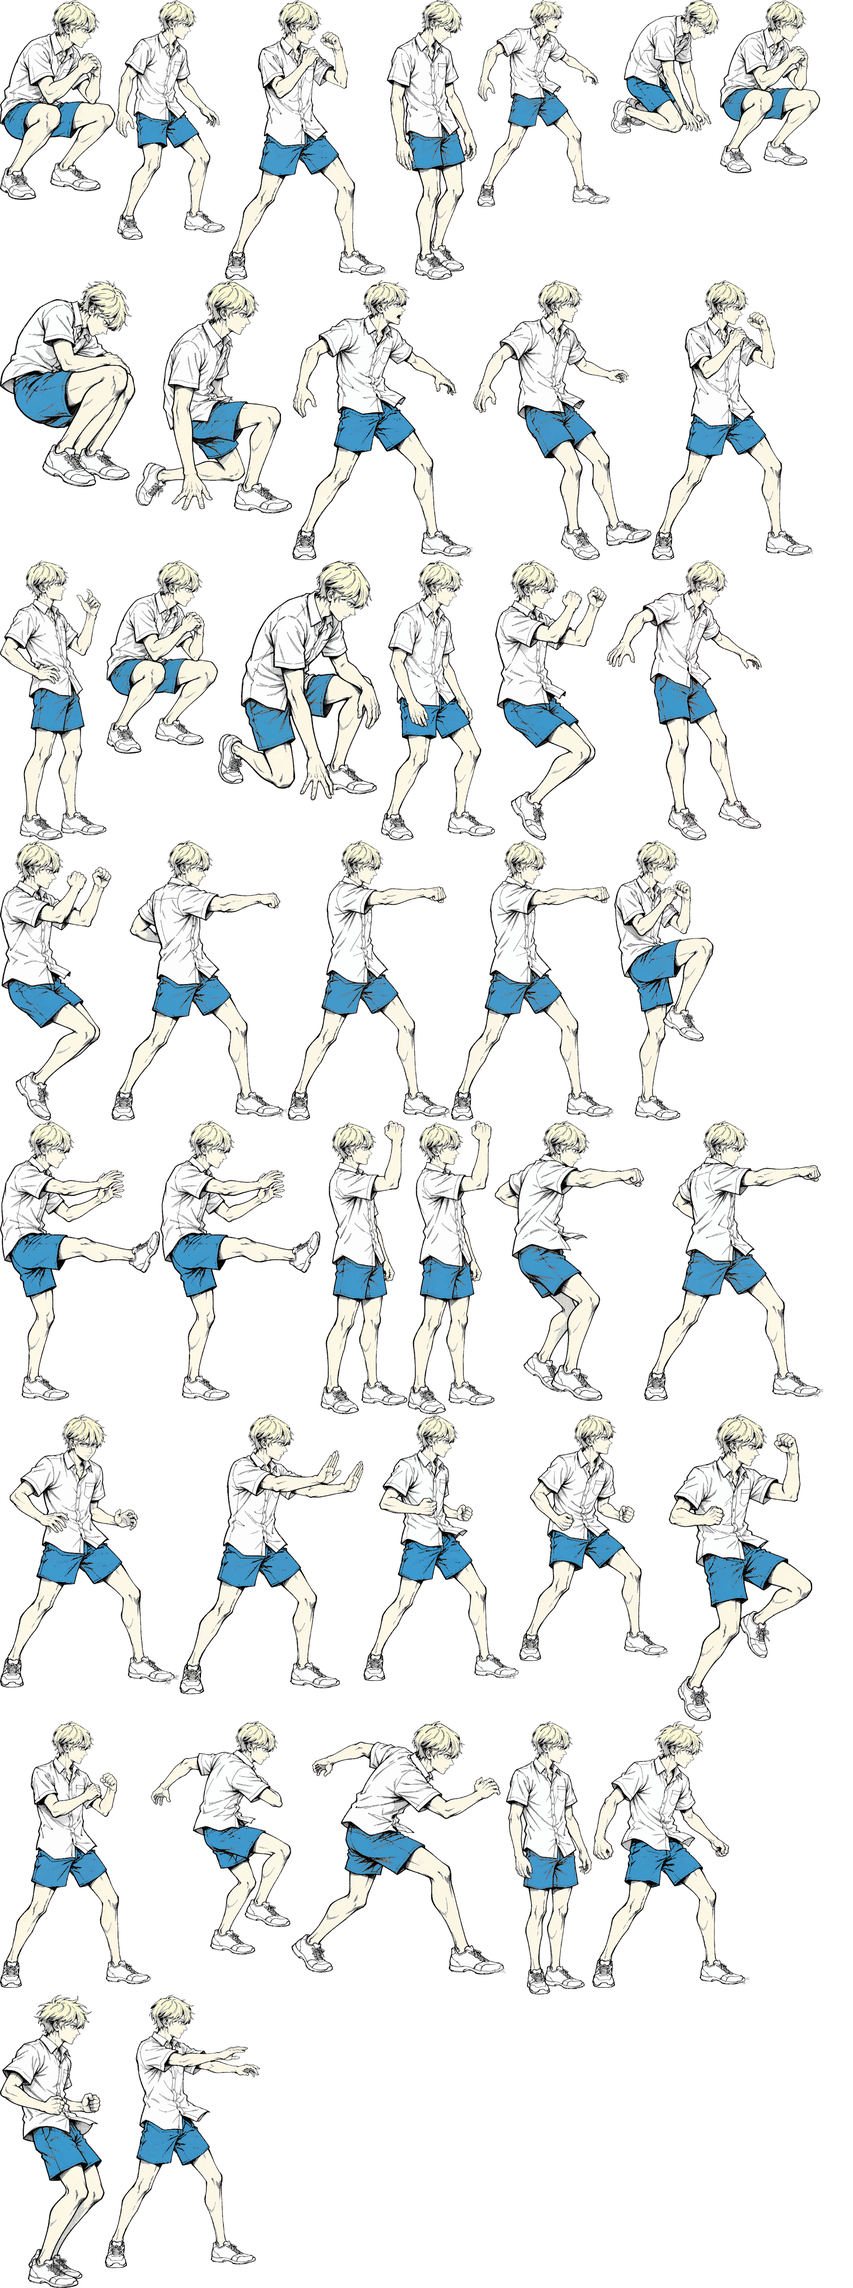
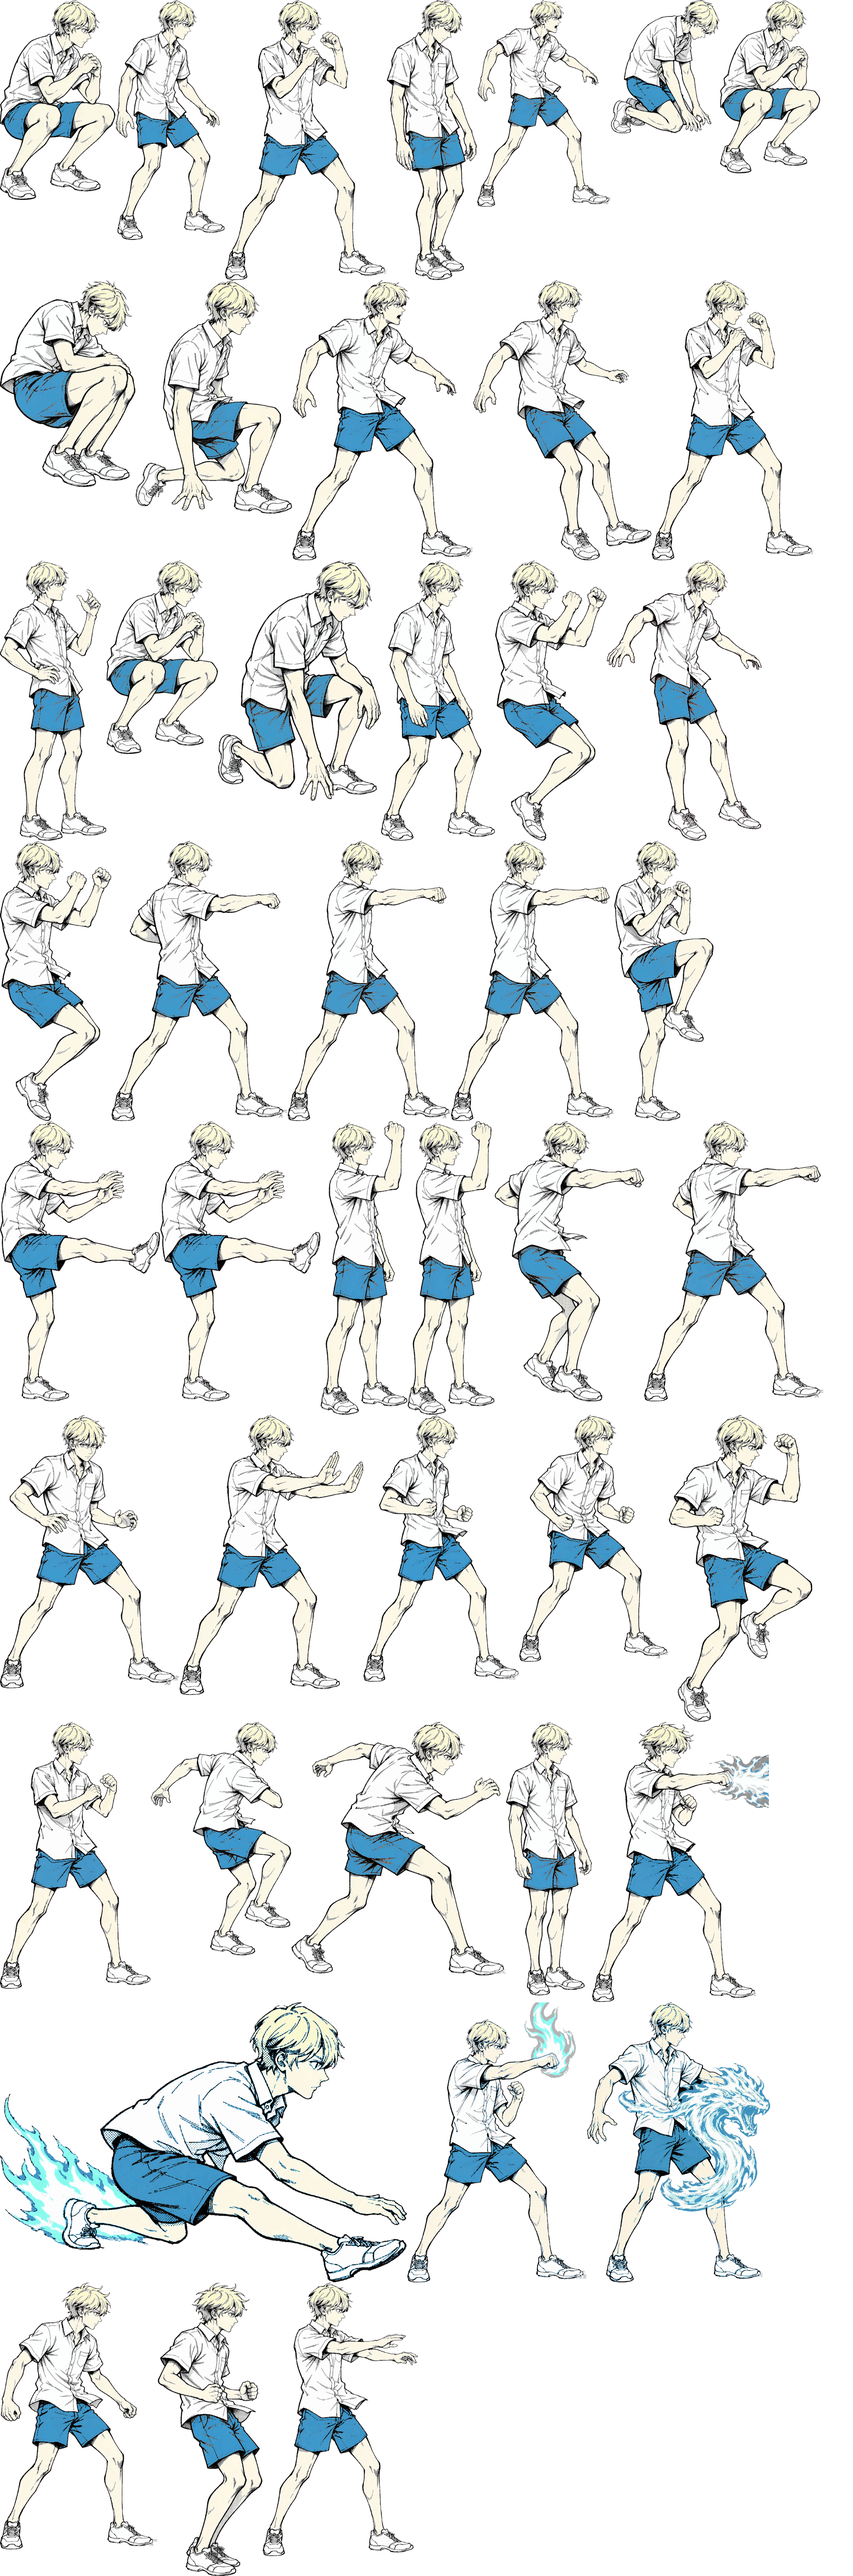
批次 20261027-0857 · [T270] 动作专属化 25/27：三天王各 4 招
改了什么：
- gen-poses 加 12 条（Yashiro：暗紫气浪/砸拳冲击/格挡气墙/踏地波纹；
  Shermie：洋红电光/电弧环绕/电弧圆环/全身雷电；
  Chris：青白火焰/滑铲火尾/火柱/火焰大蛇）
- build-sheet 加三组 12 个动画 + EXCLUSIVE_OWNER
- poses.ts 加 12 个兜底
- 三个角色数据各改 5 处

三种色系完全分开：暗紫（社）/ 洋红（夏尔米）/ 青白（克里斯）——三天王一眼可辨。
Chris 的「炎の大蛇」AI 真的把一团青白火焰画成了蛇形、蛇头清晰，是这个角色的招牌。

为什么一次做三个：三天王是同一队、同一次导入，一起做便于对照色系是否真的区分开。

怎么验证的：打包三个角色都检查了错误（grep -qi error），失败=0；art:check 通过；
npm run check 995 条全绿；12 张图全部一次成功

diff --git a/src/render/poses.ts b/src/render/poses.ts
@@ -655,6 +655,19 @@ export const POSE_LIBRARY: Record<string, Pose> = {
   shingospecial2: { frameDuration: 1, loop: false, exclusive: 'shingo', frames: [f({ head: p(-2, -70), neck: p(-2, -60), hip: p(0, -39), legFront: [p(18, -52), p(28, -48)], legBack: [p(-8, -24), p(-8, -2)] })] },
   shingospecial3: { frameDuration: 1, loop: false, exclusive: 'shingo', frames: [f({ head: p(2, -70), neck: p(2, -60), hip: p(0, -39), armFront: [p(10, -66), p(8, -80)], armBack: [p(-10, -50), p(-14, -42)] })] },
   shingosuper: { frameDuration: 1, loop: false, exclusive: 'shingo', frames: [f({ head: p(6, -68), neck: p(6, -58), hip: p(2, -37), armFront: [p(20, -56), p(32, -54)], armBack: [p(8, -56), p(20, -54)] })] },
+  // 三天王专属必杀的兜底（key 与 anim 名一致）
+  yashirospecial1: { frameDuration: 1, loop: false, exclusive: 'yashiro', frames: [f({ head: p(6, -68), neck: p(6, -58), hip: p(2, -37), armFront: [p(18, -56), p(30, -54)], armBack: [p(-10, -52), p(-16, -46)] })] },
+  yashirospecial2: { frameDuration: 1, loop: false, exclusive: 'yashiro', frames: [f({ head: p(5, -66), neck: p(5, -56), hip: p(1, -36), armFront: [p(10, -74), p(12, -90)], armBack: [p(-8, -50), p(-14, -42)] })] },
+  yashirospecial3: { frameDuration: 1, loop: false, exclusive: 'yashiro', frames: [f({ head: p(3, -68), neck: p(3, -58), hip: p(0, -37), armFront: [p(16, -58), p(28, -56)], armBack: [p(-10, -54), p(-16, -48)] })] },
+  yashirosuper: { frameDuration: 1, loop: false, exclusive: 'yashiro', frames: [f({ head: p(4, -58), neck: p(4, -50), hip: p(0, -30), armFront: [p(18, -46), p(30, -40)], armBack: [p(-16, -46), p(-28, -40)] })] },
+  shermiespecial1: { frameDuration: 1, loop: false, exclusive: 'shermie', frames: [f({ head: p(4, -70), neck: p(4, -60), hip: p(1, -39), armFront: [p(16, -58), p(30, -56)], armBack: [p(6, -58), p(20, -56)] })] },
+  shermiespecial2: { frameDuration: 1, loop: false, exclusive: 'shermie', frames: [f({ head: p(-4, -66), neck: p(-4, -56), hip: p(-2, -36), armFront: [p(12, -62), p(16, -78)], armBack: [p(-10, -56), p(-14, -72)] })] },
+  shermiespecial3: { frameDuration: 1, loop: false, exclusive: 'shermie', frames: [f({ head: p(2, -70), neck: p(1, -60), hip: p(0, -39), legFront: [p(20, -50), p(30, -44)], legBack: [p(-8, -26), p(-10, -8)] })] },
+  shermiesuper: { frameDuration: 1, loop: false, exclusive: 'shermie', frames: [f({ head: p(-6, -62), neck: p(-6, -54), hip: p(-3, -34), armFront: [p(10, -58), p(14, -74)], armBack: [p(-8, -54), p(-12, -70)] })] },
+  chrisspecial1: { frameDuration: 1, loop: false, exclusive: 'chris', frames: [f({ head: p(4, -70), neck: p(4, -60), hip: p(1, -38), armFront: [p(16, -58), p(30, -56)], armBack: [p(-10, -52), p(-16, -46)] })] },
+  chrisspecial2: { frameDuration: 1, loop: false, exclusive: 'chris', frames: [f({ head: p(8, -54), neck: p(8, -46), hip: p(2, -28), legFront: [p(20, -18), p(32, -8)], legBack: [p(-10, -16), p(-14, -2)] })] },
+  chrisspecial3: { frameDuration: 1, loop: false, exclusive: 'chris', frames: [f({ head: p(1, -74), neck: p(1, -64), hip: p(0, -41), armFront: [p(10, -66), p(8, -82)], armBack: [p(-10, -50), p(-14, -42)] })] },
+  chrissuper: { frameDuration: 1, loop: false, exclusive: 'chris', frames: [f({ head: p(-2, -70), neck: p(-2, -60), hip: p(0, -38), armFront: [p(14, -58), p(28, -54)], armBack: [p(-14, -58), p(-28, -54)] })] },
   /** 升龙系：整个人向上冲，手臂上举 */
   specialUppercut: {
     frameDuration: 1,

diff --git a/src/data/chars/yashiro.ts b/src/data/chars/yashiro.ts
@@ -23,7 +23,7 @@ export const YASHIRO: CharDef = {
 
     // ---------------------------------------------------------------- 必杀技
     // 強靭ダン：突进肩撞
-    '236A': mv('236A', '強靭ダン', 'punchHeavy', 38, 'special', [
+    '236A': mv('236A', '強靭ダン', 'yashirospecial1', 38, 'special', [
       hit('h1', {
         box: { x: 14, y: -64, w: 36, h: 24 },
         frames: [10, 14],
@@ -37,7 +37,7 @@ export const YASHIRO: CharDef = {
     ], { input: { motion: '236', buttons: ['A'] }, travel: 66, travelFrames: 15 }),
 
     // ミサイルマイト：跳起砸地（中段）
-    '214A': mv('214A', 'ミサイルマイト', 'punchHeavy', 42, 'special', [
+    '214A': mv('214A', 'ミサイルマイト', 'yashirospecial2', 42, 'special', [
       hit('h1', {
         box: { x: 10, y: -70, w: 38, h: 34 },
         frames: [14, 18],
@@ -53,7 +53,7 @@ export const YASHIRO: CharDef = {
     ], { input: { motion: '214', buttons: ['A'] } }),
 
     // ジェットカウンター：对空上捞
-    '623A': mv('623A', 'ジェットカウンター', 'punchHeavy', 40, 'special', [
+    '623A': mv('623A', 'ジェットカウンター', 'yashirospecial3', 40, 'special', [
       hit('h1', {
         box: { x: 6, y: -90, w: 30, h: 62 },
         frames: [5, 11],
@@ -67,7 +67,7 @@ export const YASHIRO: CharDef = {
     ], { input: { motion: '623', buttons: ['A'] }, invuln: [{ frames: [1, 5], kind: 'full' }] }),
 
     // ---------------------------------------------------------------- 超必杀
-    '236236A': mv('236236A', 'ミリオンスタンプ', 'special', 66, 'super', [
+    '236236A': mv('236236A', 'ミリオンスタンプ', 'yashirosuper', 66, 'super', [
       hit('h1', { box: { x: 10, y: -72, w: 40, h: 34 }, frames: [10, 14], damage: 38, hitStun: 17, hitstop: 7, meterGain: 0 }),
       hit('h2', { box: { x: 10, y: -74, w: 40, h: 38 }, frames: [20, 24], damage: 36, hitStun: 17, hitstop: 7, meterGain: 0 }),
       hit('h3', {
@@ -81,7 +81,7 @@ export const YASHIRO: CharDef = {
       }),
     ], { input: { motion: '236236', buttons: ['A'] }, meterCost: 50, travel: 46, travelFrames: 14 }),
 
-    '236236AC': mv('236236AC', 'ミリオンスタンプ MAX', 'special', 78, 'super', [
+    '236236AC': mv('236236AC', 'ミリオンスタンプ MAX', 'yashirosuper', 78, 'super', [
       hit('h1', { box: { x: 8, y: -74, w: 42, h: 36 }, frames: [8, 11], damage: 34, hitStun: 17, hitstop: 6, meterGain: 0 }),
       hit('h2', { box: { x: 8, y: -76, w: 42, h: 40 }, frames: [16, 19], damage: 32, hitStun: 17, hitstop: 6, meterGain: 0 }),
       hit('h3', { box: { x: 8, y: -78, w: 44, h: 42 }, frames: [24, 27], damage: 32, hitStun: 17, hitstop: 6, meterGain: 0 }),

diff --git a/src/data/chars/shermie.ts b/src/data/chars/shermie.ts
@@ -22,7 +22,7 @@ export const SHERMIE: CharDef = {
 
     // ---------------------------------------------------------------- 必杀技
     // シェルミーフラッシュ：雷电突进
-    '236A': mv('236A', 'シェルミーフラッシュ', 'special', 38, 'special', [
+    '236A': mv('236A', 'シェルミーフラッシュ', 'shermiespecial1', 38, 'special', [
       hit('h1', {
         box: { x: 12, y: -66, w: 36, h: 30 },
         frames: [11, 15],
@@ -36,7 +36,7 @@ export const SHERMIE: CharDef = {
     ], { input: { motion: '236', buttons: ['A'] }, travel: 54, travelFrames: 15 }),
 
     // シェルミースパイラル：抓起来摔（不可防）
-    '63214B': mv('63214B', 'シェルミースパイラル', 'throwStart', 54, 'throw', [
+    '63214B': mv('63214B', 'シェルミースパイラル', 'shermiespecial2', 54, 'throw', [
       hit('h1', {
         box: { x: 4, y: -64, w: 32, h: 48 },
         frames: [8, 12],
@@ -51,7 +51,7 @@ export const SHERMIE: CharDef = {
     ], { input: { motion: '63214', buttons: ['B'] }, blockable: false }),
 
     // アクセルスピンナー：原地回旋踢
-    '214A': mv('214A', 'アクセルスピンナー', 'kickHeavy', 40, 'special', [
+    '214A': mv('214A', 'アクセルスピンナー', 'shermiespecial3', 40, 'special', [
       hit('h1', { box: { x: 10, y: -66, w: 32, h: 24 }, frames: [9, 12], damage: 30, hitStun: 15, hitstop: 6, meterGain: 5 }),
       hit('h2', {
         box: { x: 10, y: -70, w: 34, h: 30 },
@@ -65,7 +65,7 @@ export const SHERMIE: CharDef = {
     ], { input: { motion: '214', buttons: ['A'] } }),
 
     // ---------------------------------------------------------------- 超必杀
-    '236236A': mv('236236A', 'シェルミーパラダイス', 'throwStart', 70, 'super', [
+    '236236A': mv('236236A', 'シェルミーパラダイス', 'shermiesuper', 70, 'super', [
       hit('h1', {
         box: { x: 4, y: -66, w: 34, h: 50 },
         frames: [8, 12],
@@ -98,7 +98,7 @@ export const SHERMIE: CharDef = {
       }),
     ], { input: { motion: '236236', buttons: ['A'] }, meterCost: 100, blockable: false }),
 
-    '236236AC': mv('236236AC', 'シェルミーフラッシュ MAX', 'special', 64, 'super', [
+    '236236AC': mv('236236AC', 'シェルミーフラッシュ MAX', 'shermiesuper', 64, 'super', [
       hit('h1', { box: { x: 10, y: -70, w: 38, h: 34 }, frames: [8, 12], damage: 34, hitStun: 16, hitstop: 7, meterGain: 0 }),
       hit('h2', { box: { x: 10, y: -72, w: 40, h: 38 }, frames: [18, 22], damage: 32, hitStun: 16, hitstop: 7, meterGain: 0 }),
       hit('h3', {

diff --git a/src/data/chars/chris.ts b/src/data/chars/chris.ts
@@ -22,7 +22,7 @@ export const CHRIS: CharDef = {
 
     // ---------------------------------------------------------------- 必杀技
     // クリスフレイム：火焰弹（飞行道具）
-    '236A': mv('236A', 'クリスフレイム', 'special', 36, 'special', [], {
+    '236A': mv('236A', 'クリスフレイム', 'chrisspecial1', 36, 'special', [], {
       input: { motion: '236', buttons: ['A'] },
       projectile: {
         anim: 'クリスフレイム',
@@ -43,7 +43,7 @@ export const CHRIS: CharDef = {
     }),
 
     // スライディング：低身滑铲（下段）
-    '214B': mv('214B', 'スライディング', 'crouchKick', 34, 'special', [
+    '214B': mv('214B', 'スライディング', 'chrisspecial2', 34, 'special', [
       hit('h1', {
         box: { x: 10, y: -20, w: 34, h: 16 },
         frames: [9, 13],
@@ -59,7 +59,7 @@ export const CHRIS: CharDef = {
     ], { input: { motion: '214', buttons: ['B'] }, travel: 62, travelFrames: 14 }),
 
     // フレイムアッパー：对空火焰拳
-    '623A': mv('623A', 'フレイムアッパー', 'special', 38, 'special', [
+    '623A': mv('623A', 'フレイムアッパー', 'chrisspecial3', 38, 'special', [
       hit('h1', {
         box: { x: 6, y: -86, w: 28, h: 58 },
         frames: [4, 10],
@@ -73,7 +73,7 @@ export const CHRIS: CharDef = {
     ], { input: { motion: '623', buttons: ['A'] }, invuln: [{ frames: [1, 5], kind: 'full' }] }),
 
     // ---------------------------------------------------------------- 超必杀
-    '236236A': mv('236236A', 'クリスフレイム MAX', 'special', 64, 'super', [
+    '236236A': mv('236236A', 'クリスフレイム MAX', 'chrissuper', 64, 'super', [
       hit('h1', { box: { x: 10, y: -74, w: 36, h: 30 }, frames: [8, 11], damage: 28, hitStun: 16, hitstop: 6, meterGain: 0 }),
       hit('h2', { box: { x: 10, y: -76, w: 36, h: 34 }, frames: [15, 18], damage: 26, hitStun: 16, hitstop: 6, meterGain: 0 }),
       hit('h3', { box: { x: 10, y: -78, w: 38, h: 38 }, frames: [22, 25], damage: 26, hitStun: 16, hitstop: 6, meterGain: 0 }),
@@ -88,7 +88,7 @@ export const CHRIS: CharDef = {
       }),
     ], { input: { motion: '236236', buttons: ['A'] }, meterCost: 50, travel: 44, travelFrames: 12 }),
 
-    '236236AC': mv('236236AC', '炎の大蛇', 'special', 76, 'super', [], {
+    '236236AC': mv('236236AC', '炎の大蛇', 'chrissuper', 76, 'super', [], {
       input: { motion: '236236', buttons: ['A', 'C'] },
       meterCost: 100,
       projectile: {

diff --git a/docs/MOVE-PER-CHAR.md b/docs/MOVE-PER-CHAR.md
@@ -83,14 +83,14 @@ mv('236A', '百拾四式・荒咬', 'punchLight', 26, 'special', [...])
 | 19 | ビリー billy | 旋風棍 / 三節棍中段打ち / 火龍棍 / 超火炎旋風棍 | **done** |
 | 20 | 影二 eiji | 霞斬り / 骨破ぎ / 影すべり / 斬鉄蟷螂 | **done** |
 | 21 | 矢吹真吾 shingo | 荒咬み（未完成）/ 真吾キック / 鬼焼き（未完成）/ 外式・駈け鳳麟 | **done** |
-| 22 | 社 yashiro | ミリオンラッシュ / ダークエレジー / ディザスターパンチ / ファイナルインパクト | - |
-| 23 | シェルミー shermie | シャイニングアックス / ショルダーダッシュ / アクセルスピンナックル / ファイナルスピン | - |
-| 24 | クリス chris | 舞首 / 射殺 / 乱れ菊 / サイコリフレクター | - |
+| 22 | 社 yashiro | 強靭ダン / ミサイルマイト / ジェットカウンター / ミリオンスタンプ | **done** |
+| 23 | シェルミー shermie | シェルミーフラッシュ / スパイラル / アクセルスピンナー / パラダイス | **done** |
+| 24 | クリス chris | クリスフレイム / スライディング / フレイムアッパー / 炎の大蛇 | **done** |
 | 25 | ゲーニッツ goenitz | 夜風の曲 / 氷河 / 大気圏の引裂き / 真・八拾八式 | - |
 | 26 | 暴走庵 orochi_iori | 百八式・闇払い / 百式・鬼焼き / 屑風 / 禁千弐百拾八式・八稚女 | - |
 | 27 | 覚醒レオナ orochi_leona | グランドセイバー / ムーンストライカー / Xキャリバー / リボルブブラスター | - |
 
-**完成度：22 / 27**
+**完成度：25 / 27**
 
 ## 六、已完成记录
 
@@ -383,6 +383,41 @@ benispecial1: {
 
 > 真吾的三招必杀都是"零星火星 + 姿势生涩"，只有超必杀才有完整火焰——
 > 这个**层次差**正好表达了"徒弟还没练成，但关键时候能爆发"，比单纯换个颜色有意思。
+
+### 23. 社 Yashiro（done）
+
+暗色、拳击/重力、暗紫冲击：
+
+| 招式 | 专属动画 | 出图效果 |
+|---|---|---|
+| 強靭ダン（236A） | `yashirospecial1` | 重拳前炸开**暗紫气浪** |
+| ミサイルマイト（214A） | `yashirospecial2` | 砸拳、暗紫冲击波 |
+| ジェットカウンター（623A） | `yashirospecial3` | 格挡反击、气墙 |
+| ミリオンスタンプ（超必杀） | `yashirosuper` | 踏地、**地面裂开暗紫冲击波** |
+
+### 24. シェルミー Shermie（done）
+
+投技 + 雷电、洋红色电光：
+
+| 招式 | 专属动画 | 出图效果 |
+|---|---|---|
+| シェルミーフラッシュ（236A） | `shermiespecial1` | 掌心炸开**洋红电光** |
+| シェルミースパイラル（63214B） | `shermiespecial2` | 旋身摔、**洋红电弧环绕** |
+| アクセルスピンナー（214A） | `shermiespecial3` | **腿部拖出洋红电弧圆环** |
+| シェルミーパラダイス（超必杀） | `shermiesuper` | **全身缠绕洋红雷电** |
+
+### 25. クリス Chris（done）
+
+火焰 + 速度、青白色火：
+
+| 招式 | 专属动画 | 出图效果 |
+|---|---|---|
+| クリスフレイム（236A） | `chrisspecial1` | 掌心喷**青白火焰** |
+| スライディング（214B） | `chrisspecial2` | 滑铲、**腿后拖火尾** |
+| フレイムアッパー（623A） | `chrisspecial3` | 上勾、青白火柱 |
+| 炎の大蛇（超必杀） | `chrissuper` | **巨大青白火焰凝成蛇形、蛇头清晰** |
+
+> 三天王的色系完全分开：**暗紫（社）/ 洋红（夏尔米）/ 青白（克里斯）**。
 
 ## 七、执行约定
 

diff --git a/.continue/doing/59bce7.md b/.continue/doing/59bce7.md
@@ -1,0 +1,15 @@
+# 队列 · 会话 59bce766a368447cf9cf15c7e36322c83
+
+> 状态：执行中
+> 创建：2026-10-27
+> 批次：20261027-0857
+
+> 本批目标：三天王（Yashiro、Shermie、Chris）一次做完。
+
+- [x] [T270] 三天王各 4 个必杀专属动作（25/27）→ 出图 12 张 + 数据 + 打包验证
+  - 做了什么：①`gen-poses.mjs` 加 12 条（Yashiro：暗紫气浪/砸拳冲击/格挡气墙/踏地波纹；Shermie：洋红电光/电弧环绕/电弧圆环/全身雷电；Chris：青白火焰/滑铲火尾/火柱/火焰大蛇）；②`build-sheet.mjs` 加三组 12 个动画 + `EXCLUSIVE_OWNER`；③`poses.ts` 加 12 个兜底；④三个角色数据各改 5 处
+  - **三种色系完全分开**：暗紫（社）/ 洋红（夏尔米）/ 青白（克里斯）——三天王一眼可辨
+  - **Chris 的「炎の大蛇」**：AI 真的把一团青白火焰画成了**蛇形、蛇头清晰**，是这个角色的招牌
+  - 为什么一次做三个：三天王是同一队、同一次导入的，一起做便于对照色系是否真的区分开
+  - 验证：打包三个角色都检查了错误（`grep -qi error`），失败=0；`art:check` 通过；`npm run check` **995 条全绿**；12 张图全部一次成功
+  - 批次：20261027-0857

diff --git a/.continue/TASKS.md b/.continue/TASKS.md
@@ -288,3 +288,4 @@
 - [x] T267 角色动作专属化 18/27：Kim（青白腿法）+ Choi（紫色龙卷）各 4 招
 - [x] T268 角色动作专属化 20/27：Chang（铁球橙焰）+ Billy（三节棍火龙）各 4 招
 - [x] T269 角色动作专属化 22/27：影二（紫黑刀气）+ 真吾（未完成招式）各 4 招
+- [x] T270 角色动作专属化 25/27：三天王（社暗紫/夏尔米洋红/克里斯青白）各 4 招
